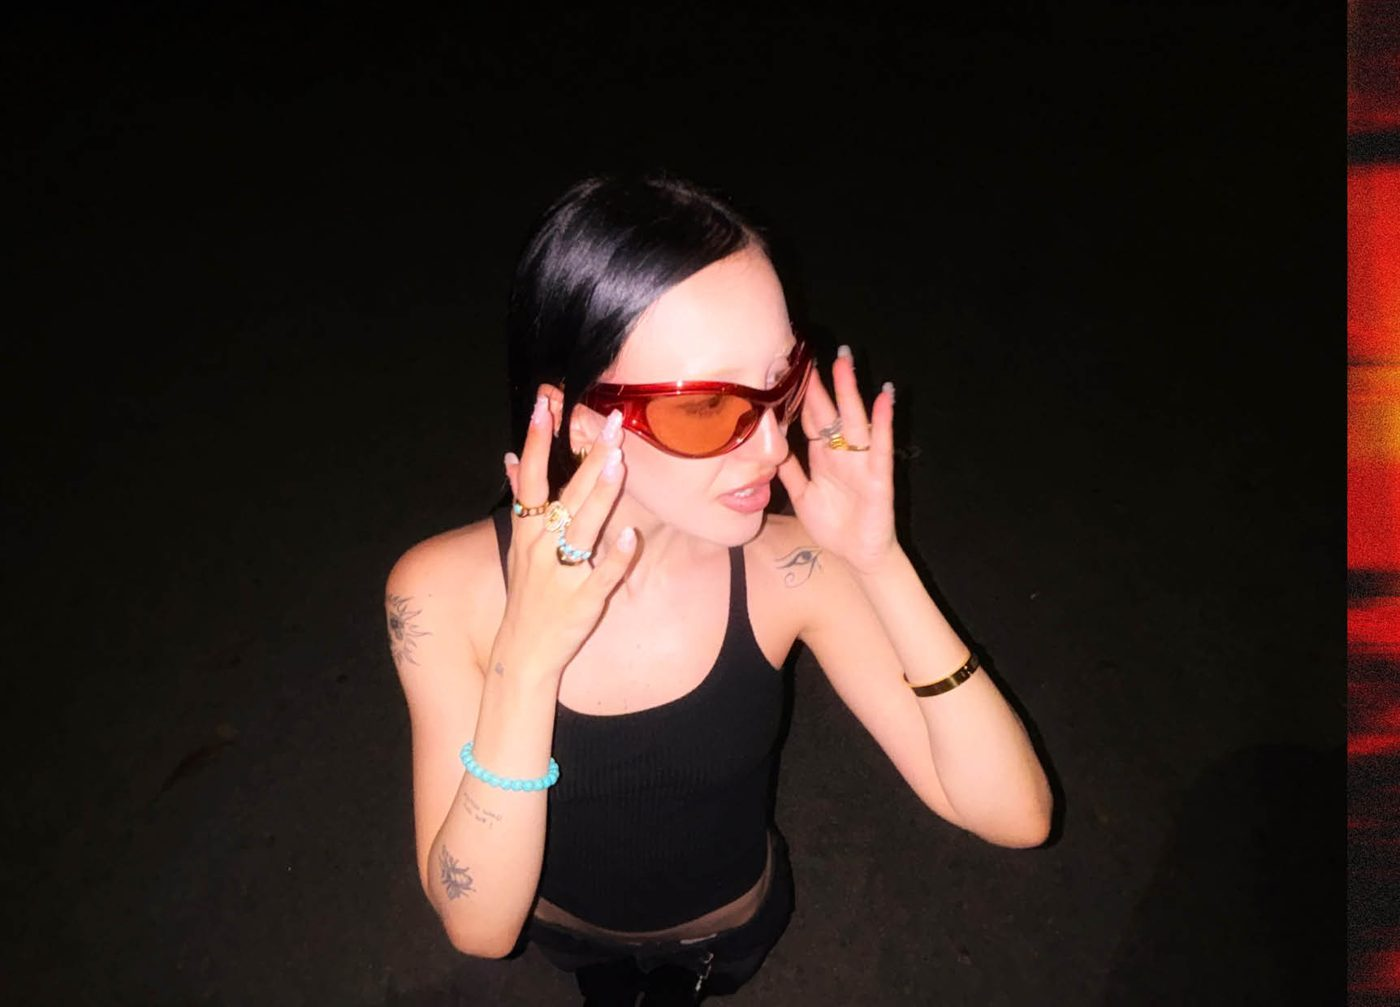
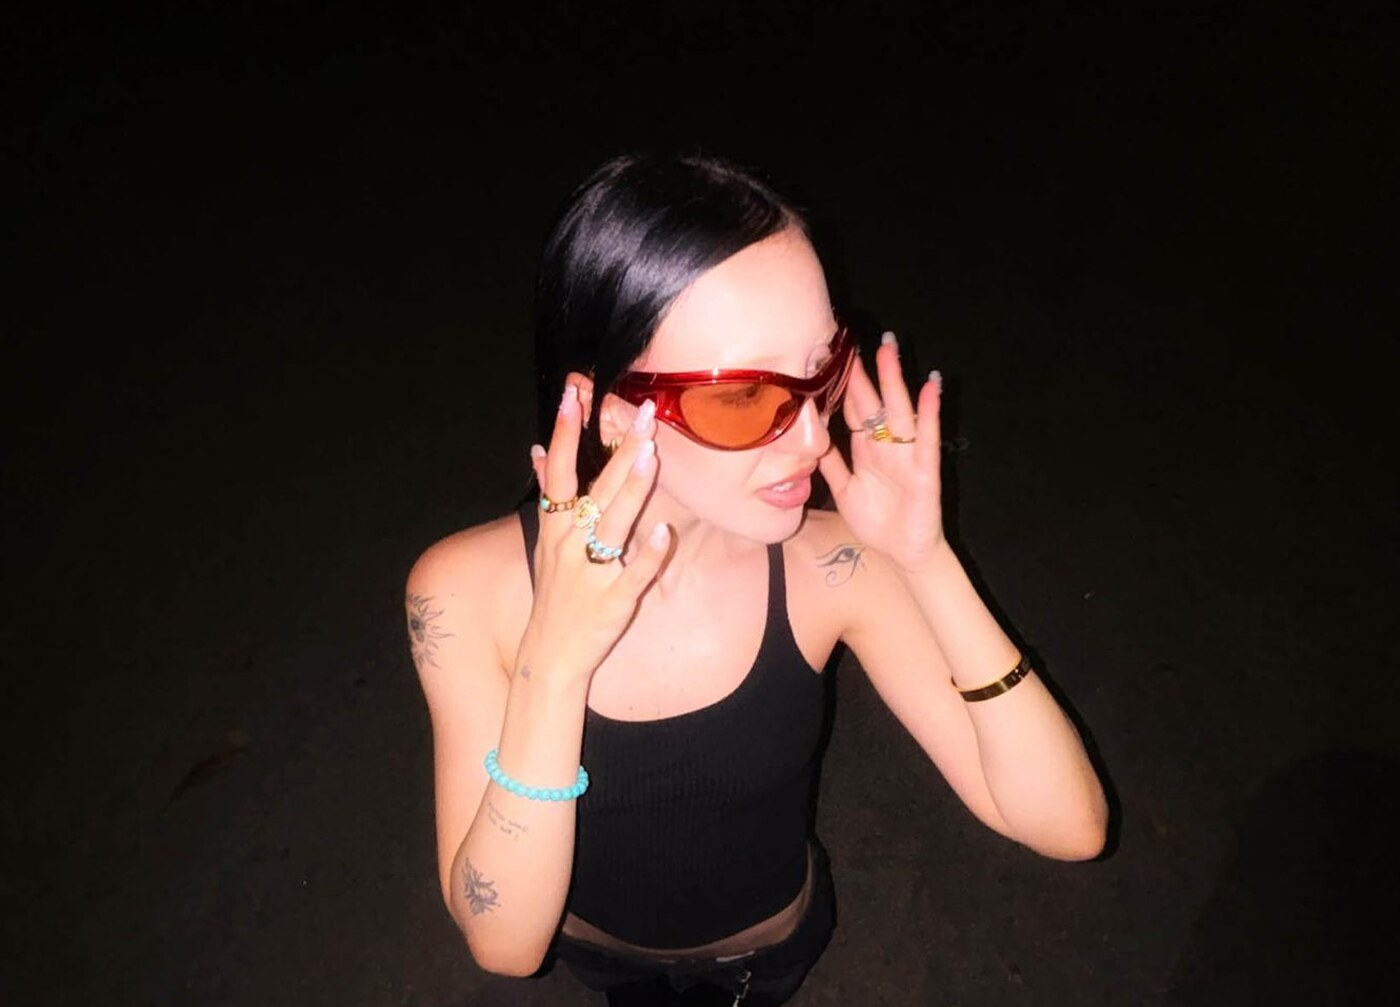
Fit: titolo -20% e glitch monocromatico a fasce; foto Sara (Round Berlin) senza striscia rossa; Square Milan Brown in alta risoluzione e marrone scurito (campaign + pagina prodotto)
Claude-Session: https://claude.ai/code/session_01JuuSP6QUbV6Sj6kKp89io5

diff --git a/pitstop.html b/pitstop.html
@@ -10,7 +10,7 @@
 <link rel="apple-touch-icon" href="apple-touch-icon.png">
 <link rel="preconnect" href="https://fonts.googleapis.com">
 <link rel="stylesheet" href="https://fonts.googleapis.com/css2?family=Inter:wght@400;500;600;700&family=Space+Grotesk:wght@500;700&family=Instrument+Serif:ital@0;1&family=Archivo:ital,wdth,wght@0,100..125,100..900;1,100..125,100..900&display=swap">
-<link rel="stylesheet" href="style.css?v=45">
+<link rel="stylesheet" href="style.css?v=46">
 <style>:root{padding-top:env(safe-area-inset-top,0px);padding-bottom:env(safe-area-inset-bottom,0px)}[hidden]{display:none!important}</style>
 </head>
 <body class="lb-page">
@@ -56,13 +56,13 @@
 
 <article class="lb-prod l" data-pid="square-milan" data-ci="2">
   <div class="lb-box">
-    <img class="lb-front" src="c/gaex/lb-square-milan-front.webp" alt="Square Milan" loading="lazy">
+    <img class="lb-front" src="c/gaex/lb-square-milan-front.webp?v=2" alt="Square Milan" loading="lazy">
     <div class="lb-info">
       <p class="lb-cap"><span class="lb-l">{B}</span> <span data-t="pd.square-milan"></span></p>
       <div class="lb-row"><a class="lb-go lb-nm" href="product.html?id=square-milan">Square Milan</a> <a class="lb-go lb-now" href="product.html?id=square-milan">{Shop Now}</a><a class="lb-go lb-arrow" href="product.html?id=square-milan" aria-label="Square Milan"><svg viewBox="0 0 24 24"><path d="M6 12h12M13 7l5 5-5 5"/></svg></a></div>
     </div>
   </div>
-  <span class="lb-side"><img src="c/gaex/lb-square-milan-side.webp" alt="" loading="lazy"></span>
+  <span class="lb-side"><img src="c/gaex/lb-square-milan-side.webp?v=2" alt="" loading="lazy"></span>
 </article>
 <div class="lb-scatter s1"><figure class="lb-f "><img src="c/gaex/pitstop-08.jpg" width="1200" height="1600" loading="lazy" decoding="async" alt="Pit Stop by Gaex Guarin"></figure><figure class="lb-f "><img src="c/gaex/pitstop-05.jpg" width="1600" height="1200" loading="lazy" decoding="async" alt="Pit Stop by Gaex Guarin"></figure></div>
 <div class="lb-scatter s0"><figure class="lb-f "><img src="c/gaex/pitstop-06.jpg" width="1200" height="1600" loading="lazy" decoding="async" alt="Pit Stop by Gaex Guarin"></figure></div>
@@ -111,7 +111,7 @@
 
 <section class="lb-shopall">
   <h2 class="lb-h2">Shop the collection</h2>
-  <div class="lb-grid"><div class="lb-cell" data-pid="brixton-main" data-ci="0"><a class="lb-go" href="product.html?id=brixton-main"><span class="lb-cell-img"><img src="c/gaex/lb-brixton-main-front.webp" alt="Brixton Main" loading="lazy"></span><span class="lb-cell-nm">Brixton Main</span><span class="lb-pr"></span></a></div><div class="lb-cell" data-pid="square-milan" data-ci="2"><a class="lb-go" href="product.html?id=square-milan"><span class="lb-cell-img"><img src="c/gaex/lb-square-milan-front.webp" alt="Square Milan" loading="lazy"></span><span class="lb-cell-nm">Square Milan</span><span class="lb-pr"></span></a></div><div class="lb-cell" data-pid="venice-x" data-ci="0"><a class="lb-go" href="product.html?id=venice-x"><span class="lb-cell-img"><img src="c/gaex/lb-venice-x-front.webp" alt="Venice X" loading="lazy"></span><span class="lb-cell-nm">Venice X</span><span class="lb-pr"></span></a></div><div class="lb-cell" data-pid="wien" data-ci="1"><a class="lb-go" href="product.html?id=wien"><span class="lb-cell-img"><img src="c/gaex/lb-wien-front.webp" alt="Wien" loading="lazy"></span><span class="lb-cell-nm">Wien</span><span class="lb-pr"></span></a></div><div class="lb-cell" data-pid="virginia-x" data-ci="0"><a class="lb-go" href="product.html?id=virginia-x"><span class="lb-cell-img"><img src="c/gaex/lb-virginia-x-front.webp" alt="Virginia X" loading="lazy"></span><span class="lb-cell-nm">Virginia X</span><span class="lb-pr"></span></a></div></div>
+  <div class="lb-grid"><div class="lb-cell" data-pid="brixton-main" data-ci="0"><a class="lb-go" href="product.html?id=brixton-main"><span class="lb-cell-img"><img src="c/gaex/lb-brixton-main-front.webp" alt="Brixton Main" loading="lazy"></span><span class="lb-cell-nm">Brixton Main</span><span class="lb-pr"></span></a></div><div class="lb-cell" data-pid="square-milan" data-ci="2"><a class="lb-go" href="product.html?id=square-milan"><span class="lb-cell-img"><img src="c/gaex/lb-square-milan-front.webp?v=2" alt="Square Milan" loading="lazy"></span><span class="lb-cell-nm">Square Milan</span><span class="lb-pr"></span></a></div><div class="lb-cell" data-pid="venice-x" data-ci="0"><a class="lb-go" href="product.html?id=venice-x"><span class="lb-cell-img"><img src="c/gaex/lb-venice-x-front.webp" alt="Venice X" loading="lazy"></span><span class="lb-cell-nm">Venice X</span><span class="lb-pr"></span></a></div><div class="lb-cell" data-pid="wien" data-ci="1"><a class="lb-go" href="product.html?id=wien"><span class="lb-cell-img"><img src="c/gaex/lb-wien-front.webp" alt="Wien" loading="lazy"></span><span class="lb-cell-nm">Wien</span><span class="lb-pr"></span></a></div><div class="lb-cell" data-pid="virginia-x" data-ci="0"><a class="lb-go" href="product.html?id=virginia-x"><span class="lb-cell-img"><img src="c/gaex/lb-virginia-x-front.webp" alt="Virginia X" loading="lazy"></span><span class="lb-cell-nm">Virginia X</span><span class="lb-pr"></span></a></div></div>
   <a class="lb-all" href="index.html?all=1#shop">{View all}</a>
 </section>
 
@@ -136,6 +136,6 @@
   <div class="f-copy">© <span id="year">2026</span> Ussess — Tutti i diritti riservati</div>
 </footer>
 
-<script src="i18n.js?v=45" charset="utf-8"></script>
-<script src="app.js?v=45" charset="utf-8"></script>
+<script src="i18n.js?v=46" charset="utf-8"></script>
+<script src="app.js?v=46" charset="utf-8"></script>
 </body></html>

diff --git a/style.css b/style.css
@@ -471,7 +471,7 @@ textarea{min-height:90px; resize:vertical;}
 }
 
 /* FIT — selettore circolare stile videogame: 3 foto frontali, centro grande, lati più piccoli */
-.fits-motto{font-family:var(--dyn); font-weight:900; font-style:italic; font-stretch:125%; font-variation-settings:"wdth" 125; letter-spacing:-.03em; text-transform:uppercase; font-size:clamp(33px,9vw,78px); line-height:1;}
+.fits-motto{font-family:var(--dyn); font-weight:900; font-style:italic; font-stretch:125%; font-variation-settings:"wdth" 125; letter-spacing:-.03em; text-transform:uppercase; font-size:clamp(26px,7.2vw,62px); line-height:1;}
 .fits-motto b{font-weight:900; letter-spacing:-.03em;}
 .fits-band{padding-block:14px;}
 .fit-sel{--w:min(72vw,600px); position:relative; outline:none;}
@@ -521,19 +521,28 @@ textarea{min-height:90px; resize:vertical;}
 .fits-band{overflow:hidden;}
 .fits-motto{position:relative; display:inline-block;}
 .fits-motto::before,.fits-motto::after{content:attr(data-text); position:absolute; inset:0; pointer-events:none; opacity:0;}
-.fits-motto::before{color:#ff1a1a; text-shadow:0 0 6px rgba(255,26,26,.6); animation:glitchA 4s steps(1) infinite;}
-.fits-motto::after{color:#ffffff; animation:glitchB 4s steps(1) infinite;}
-.fits-motto{animation:glitchM 4s steps(1) infinite;}
-@keyframes glitchA{0%,86%,100%{opacity:0; transform:none; clip-path:none;} 87%{opacity:.85; transform:translate(-3px,1px); clip-path:inset(10% 0 55% 0);} 89%{opacity:.85; transform:translate(3px,-1px); clip-path:inset(60% 0 8% 0);} 91%{opacity:.85; transform:translate(-2px,0); clip-path:inset(35% 0 40% 0);} 93%{opacity:0;}}
-@keyframes glitchB{0%,86%,100%{opacity:0; transform:none; clip-path:none;} 88%{opacity:.85; transform:translate(3px,-1px); clip-path:inset(45% 0 25% 0);} 90%{opacity:.85; transform:translate(-3px,1px); clip-path:inset(5% 0 70% 0);} 92%{opacity:.85; transform:translate(2px,0); clip-path:inset(70% 0 5% 0);} 93%{opacity:0;}}
-@keyframes glitchM{0%,86%,94%,100%{transform:none;} 88%{transform:skewX(-6deg) translateX(2px);} 90%{transform:skewX(4deg) translateX(-2px);} 92%{transform:none;}}
+/* glitch monocromatico: fasce del testo che scattano di lato (niente colori), raffiche brevi e irregolari */
+.fits-motto::before,.fits-motto::after{inset:0 -.2em; padding:0 .2em; color:#0d0d0d; background:var(--paper); will-change:transform,clip-path;}
+.fits-motto::before{animation:glitchA 6s steps(1,end) infinite;}
+.fits-motto::after{animation:glitchB 6s steps(1,end) infinite;}
+.fits-motto{animation:glitchM 6s steps(1,end) infinite;}
+@keyframes glitchA{0%,79.9%,84%,92.9%,94%,100%{opacity:0; transform:none; clip-path:inset(0 0 100% 0);}
+  80%{opacity:1; transform:translateX(-.09em); clip-path:inset(16% 0 60% 0);}
+  81%{opacity:1; transform:translateX(.06em); clip-path:inset(60% 0 16% 0);}
+  82.5%{opacity:1; transform:translateX(-.04em); clip-path:inset(38% 0 46% 0);}
+  93%{opacity:1; transform:translateX(.07em); clip-path:inset(6% 0 80% 0);}}
+@keyframes glitchB{0%,80.4%,83.5%,93.4%,94.5%,100%{opacity:0; transform:none; clip-path:inset(0 0 100% 0);}
+  80.5%{opacity:1; transform:translateX(.11em); clip-path:inset(70% 0 6% 0);}
+  82%{opacity:1; transform:translateX(-.12em); clip-path:inset(26% 0 54% 0);}
+  93.5%{opacity:1; transform:translateX(-.05em); clip-path:inset(46% 0 32% 0);}}
+@keyframes glitchM{0%,79.9%,84%,100%{transform:none;} 81%{transform:translateX(.015em);} 82.5%{transform:translateX(-.015em);}}
 @media (prefers-reduced-motion: reduce){.fits-motto,.fits-motto::before,.fits-motto::after{animation:none;}}
 .fit-tag{position:absolute; left:10px; bottom:10px; display:inline-flex; align-items:center; gap:6px; padding:5px 9px 5px 7px; border-radius:20px; background:rgba(13,13,13,.55); color:#f4f2ec; font-size:10px; letter-spacing:1.4px; text-transform:uppercase; text-decoration:none; backdrop-filter:blur(8px); -webkit-backdrop-filter:blur(8px); opacity:0; transform:translateY(6px); transition:opacity .4s .35s, transform .4s .35s, background .2s;}
 .fit-tag i{width:6px; height:6px; border-radius:50%; background:#f4f2ec; box-shadow:0 0 0 3px rgba(244,242,236,.25);}
 .fit-sel figure.on .fit-tag{opacity:1; transform:none;}
 .fit-tag:hover{background:#f4f2ec; color:#0d0d0d;} .fit-tag:hover i{background:#0d0d0d;}
 /* titolo fit: grande da computer, piccolo e su una riga da telefono (le due misure sono separate) */
-@media(max-width:719px){.fits-motto{font-size:5.6vw; white-space:nowrap;} .fits-band{padding-block:12px;}}
+@media(max-width:719px){.fits-motto{font-size:4.5vw; white-space:nowrap;} .fits-band{padding-block:12px;}}
 
 /* scheda tecnica + contenuto della confezione */
 .pd-spec{margin:26px 0 0; padding:0; border-top:1px solid var(--line);}

diff --git a/app.js b/app.js
@@ -34,7 +34,7 @@ var PRODUCTS = [
   { id: "square-milan",   name: "Square Milan",   price: 33.90, colors: [
       { c: "Black",    img: "p/square-milan-black.jpg", gallery: ["p/square-milan-black.jpg", "p/square-milan-black-45.jpg"],    stock: 1, sw: ["#111111", "#3a3a3a"] },
       { c: "Tortoise", img: "p/square-milan-tortoise.jpg", gallery: ["p/square-milan-tortoise.jpg", "p/square-milan-tortoise-45.jpg"], stock: 0, sw: ["#5a2a12", "#7a4a2a"] },
-      { c: "Brown",    img: "p/square-milan-brown.jpg", gallery: ["p/square-milan-brown.jpg", "p/square-milan-brown-45.jpg"],    stock: 0, sw: ["#a4542a", "#3a3a3a"] } ] },
+      { c: "Brown",    img: "p/square-milan-brown.jpg?v=2", gallery: ["p/square-milan-brown.jpg?v=2", "p/square-milan-brown-45.jpg?v=2"],    stock: 0, sw: ["#8e3a18", "#3a3a3a"] } ] },
   { id: "jewi-square",    name: "Jewi Square",    price: 33.90, colors: [
       { c: "Black",             img: "p/jewi-square-black.jpg", gallery: ["p/jewi-square-black.jpg", "p/jewi-square-black-45.jpg", "p/jewi-square-black-back.jpg"],    stock: 1, sw: ["#121212", "#3a3a3a"] },
       { c: "Tortoise",          img: "p/jewi-square-tortoise.jpg", stock: 0, sw: ["#5a2a12", "#8a5a2b"] },
@@ -107,7 +107,7 @@ var FITS = [
   { img: "c/fit/fit-01.jpg", id: "alien-berlin" },
   { img: "c/fit/fit-02.jpg", id: "virginia" },
   { img: "c/fit/fit-03.jpg", id: "ow-square-miami", name: "Square Miami" },
-  { img: "c/fit/fit-04.jpg", id: "round-berlin", name: "Round Berlin" },
+  { img: "c/fit/fit-04.jpg?v=2", id: "round-berlin", name: "Round Berlin" },
   { img: "c/fit/fit-05.jpg", id: "undulance" },
   { img: "c/fit/fit-06.jpg", id: "", name: "Nose XS" },
   { img: "c/fit/fit-07.jpg", id: "", name: "Nose XS" },

diff --git a/cart.html b/cart.html
@@ -8,7 +8,7 @@
 <link rel="icon" type="image/png" sizes="32x32" href="favicon-32.png">
 <link rel="apple-touch-icon" href="apple-touch-icon.png">
 <link rel="stylesheet" href="https://fonts.googleapis.com/css2?family=Inter:wght@400;500;600;700&family=Space+Grotesk:wght@500;700&display=swap">
-<link rel="stylesheet" href="style.css?v=45">
+<link rel="stylesheet" href="style.css?v=46">
 <style>:root{padding-top:env(safe-area-inset-top,0px);padding-bottom:env(safe-area-inset-bottom,0px)}[hidden]{display:none!important}</style>
 </head>
 <body>
@@ -53,7 +53,7 @@
   <div class="f-line"><a href="policy.html#resi">Resi e rimborsi</a><a href="policy.html#spedizioni">Spedizioni</a><a href="policy.html#privacy">Privacy</a><a href="policy.html#termini">Termini</a></div>
   <div class="f-copy">© <span id="year">2026</span> Ussess — Tutti i diritti riservati</div>
 </footer>
-<script src="i18n.js?v=45" charset="utf-8"></script>
-<script src="app.js?v=45" charset="utf-8"></script>
+<script src="i18n.js?v=46" charset="utf-8"></script>
+<script src="app.js?v=46" charset="utf-8"></script>
 </body>
 </html>

diff --git a/contatti.html b/contatti.html
@@ -8,7 +8,7 @@
 <link rel="icon" type="image/png" sizes="32x32" href="favicon-32.png">
 <link rel="apple-touch-icon" href="apple-touch-icon.png">
 <link rel="stylesheet" href="https://fonts.googleapis.com/css2?family=Inter:wght@400;500;600;700&family=Space+Grotesk:wght@500;700&display=swap">
-<link rel="stylesheet" href="style.css?v=45">
+<link rel="stylesheet" href="style.css?v=46">
 <style>:root{padding-top:env(safe-area-inset-top,0px);padding-bottom:env(safe-area-inset-bottom,0px)}[hidden]{display:none!important}</style>
 </head>
 <body>
@@ -45,7 +45,7 @@
   <div class="f-line"><a href="policy.html#resi">Resi e rimborsi</a><a href="policy.html#spedizioni">Spedizioni</a><a href="policy.html#privacy">Privacy</a><a href="policy.html#termini">Termini</a></div>
   <div class="f-copy">© <span id="year">2026</span> Ussess — Tutti i diritti riservati</div>
 </footer>
-<script src="i18n.js?v=45" charset="utf-8"></script>
-<script src="app.js?v=45" charset="utf-8"></script>
+<script src="i18n.js?v=46" charset="utf-8"></script>
+<script src="app.js?v=46" charset="utf-8"></script>
 </body>
 </html>

diff --git a/policy.html b/policy.html
@@ -8,7 +8,7 @@
 <link rel="icon" type="image/png" sizes="32x32" href="favicon-32.png">
 <link rel="apple-touch-icon" href="apple-touch-icon.png">
 <link rel="stylesheet" href="https://fonts.googleapis.com/css2?family=Inter:wght@400;500;600;700&family=Space+Grotesk:wght@500;700&display=swap">
-<link rel="stylesheet" href="style.css?v=45">
+<link rel="stylesheet" href="style.css?v=46">
 <style>:root{padding-top:env(safe-area-inset-top,0px);padding-bottom:env(safe-area-inset-bottom,0px)}[hidden]{display:none!important}</style>
 </head>
 <body>
@@ -86,7 +86,7 @@
   <div class="f-line"><a href="policy.html#resi">Resi e rimborsi</a><a href="policy.html#spedizioni">Spedizioni</a><a href="policy.html#privacy">Privacy</a><a href="policy.html#termini">Termini</a></div>
   <div class="f-copy">© <span id="year">2026</span> Ussess — Tutti i diritti riservati</div>
 </footer>
-<script src="i18n.js?v=45" charset="utf-8"></script>
-<script src="app.js?v=45" charset="utf-8"></script>
+<script src="i18n.js?v=46" charset="utf-8"></script>
+<script src="app.js?v=46" charset="utf-8"></script>
 </body>
 </html>

diff --git a/index.html b/index.html
@@ -7,7 +7,7 @@
 <link rel="apple-touch-icon" href="apple-touch-icon.png">
 <link rel="preconnect" href="https://fonts.googleapis.com">
 <link rel="stylesheet" href="https://fonts.googleapis.com/css2?family=Inter:wght@400;500;600;700&family=Space+Grotesk:wght@500;700&family=Instrument+Serif:ital@0;1&family=Archivo:ital,wdth,wght@0,100..125,100..900;1,100..125,100..900&display=swap">
-<link rel="stylesheet" href="style.css?v=45">
+<link rel="stylesheet" href="style.css?v=46">
 
 <header class="site-header">
   <button class="ibtn" type="button" aria-label="Apri menu" onclick="openMenu()"><svg viewBox="0 0 24 24"><path d="M3 6h18M3 12h18M3 18h18"/></svg></button>
@@ -100,7 +100,7 @@
   <div class="f-copy">© <span id="year">2026</span> Ussess — Tutti i diritti riservati</div>
 </footer>
 
-<script src="i18n.js?v=45" charset="utf-8"></script>
-<script src="app.js?v=45" charset="utf-8"></script>
+<script src="i18n.js?v=46" charset="utf-8"></script>
+<script src="app.js?v=46" charset="utf-8"></script>
 
 </body></html>

diff --git a/product.html b/product.html
@@ -10,7 +10,7 @@
 <link rel="apple-touch-icon" href="apple-touch-icon.png">
 <link rel="preconnect" href="https://fonts.googleapis.com">
 <link rel="stylesheet" href="https://fonts.googleapis.com/css2?family=Inter:wght@400;500;600;700&family=Space+Grotesk:wght@500;700&family=Instrument+Serif:ital@0;1&family=Archivo:ital,wdth,wght@0,100..125,100..900;1,100..125,100..900&display=swap">
-<link rel="stylesheet" href="style.css?v=45">
+<link rel="stylesheet" href="style.css?v=46">
 <style>:root{padding-top:env(safe-area-inset-top,0px);padding-bottom:env(safe-area-inset-bottom,0px)}[hidden]{display:none!important}</style>
 </head>
 <body class="pd-page">
@@ -39,6 +39,6 @@
   <div class="f-copy">© <span id="year">2026</span> Ussess — Tutti i diritti riservati</div>
 </footer>
 
-<script src="i18n.js?v=45" charset="utf-8"></script>
-<script src="app.js?v=45" charset="utf-8"></script>
+<script src="i18n.js?v=46" charset="utf-8"></script>
+<script src="app.js?v=46" charset="utf-8"></script>
 </body></html>
